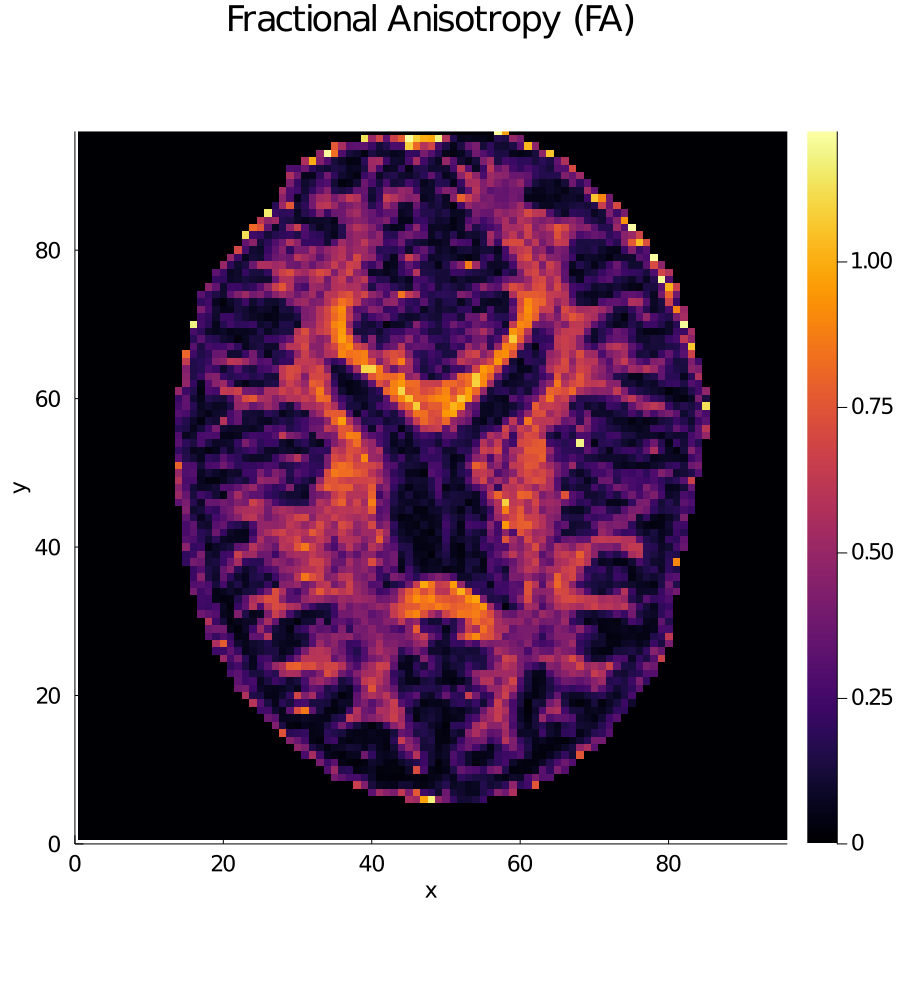
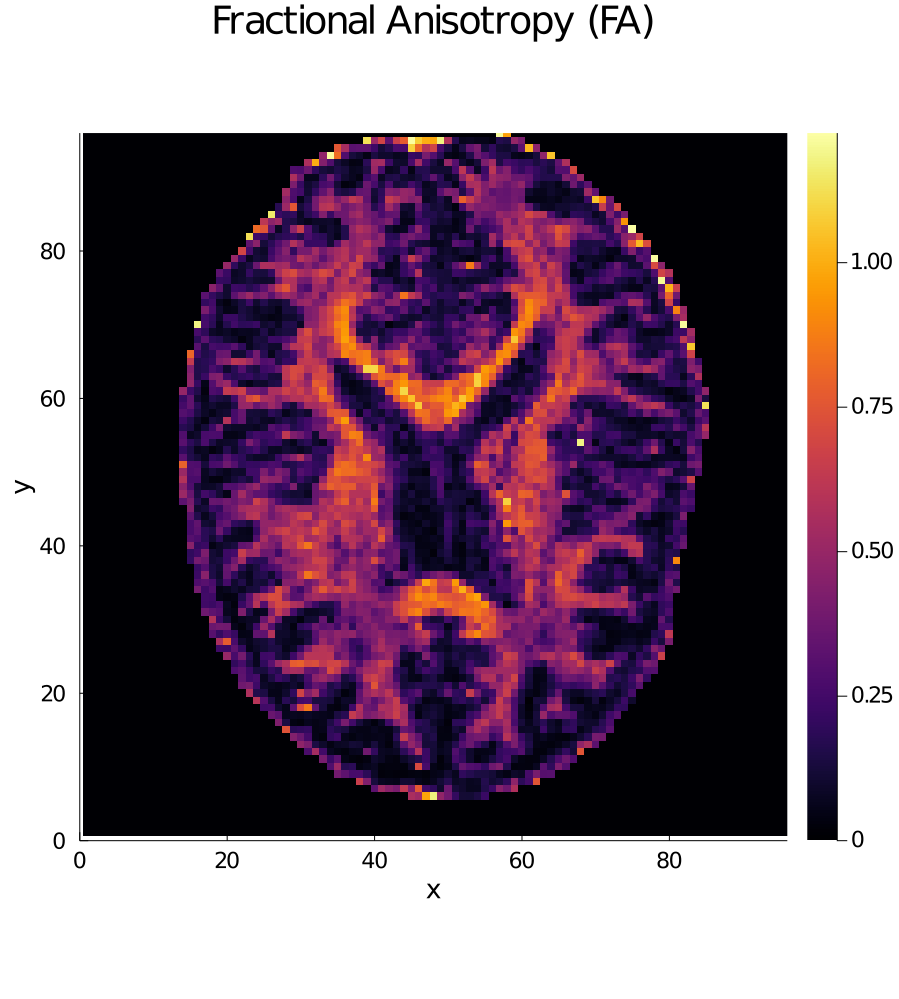
change fig arrangement

diff --git a/README.md b/README.md
@@ -1,6 +1,6 @@
 Some scripts to parse diffusion-weighted MRI data. Uses nonlinear least squares to fit the diffusion model to each voxel. 
 
 <p float="left">
-  <img src="./pngs/MDmap.png" width="48%" />
-  <img src="./pngs/FAmap.png" width="48%" /> 
+  <img src="./pngs/MDmap.png" width="49%" />
+  <img src="./pngs/FAmap.png" width="49%" /> 
 </p>
